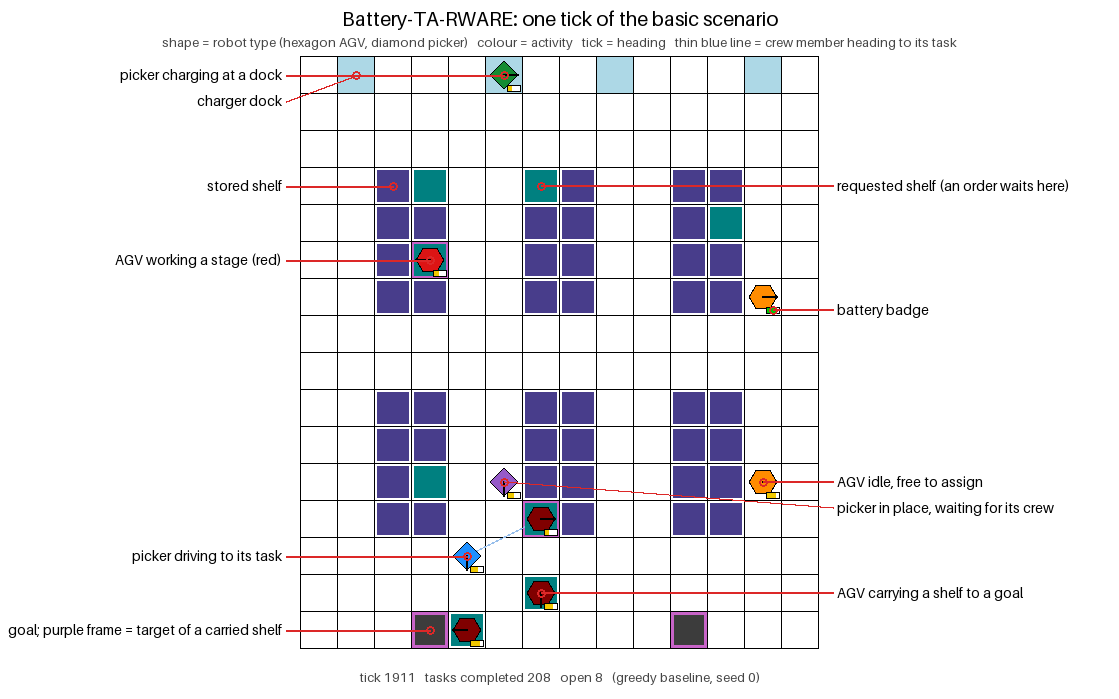
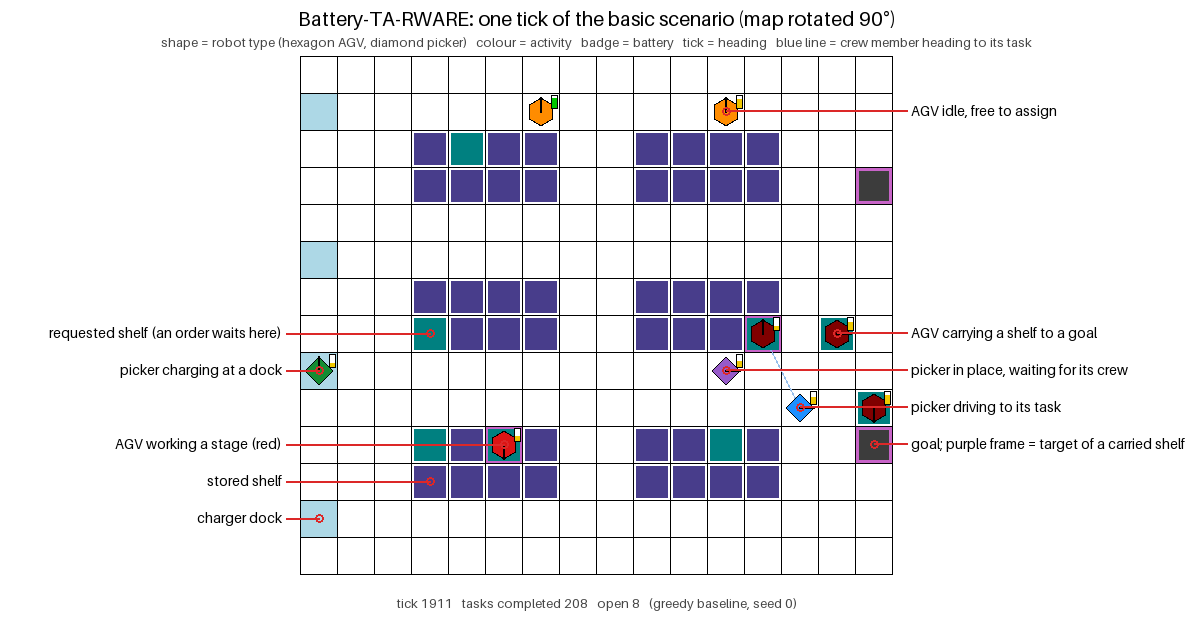
Release polish: large-scale GIFs with charging, rotated explanation figure, README emphasis, PettingZoo metadata v2

Changed region(s): [[0.0, 0.0, 1.0, 0.9728], [0.7292, 0.3648, 0.7596, 0.3952]]

diff --git a/docs/make_gifs.py b/docs/make_gifs.py
@@ -1,4 +1,5 @@
-"""Render the README animations (docs/img/*.gif) with the greedy baseline.
+"""Render the four README animations (docs/img/*.gif): large versions of basic, intermediate,
+advanced and the tutorial scenario, run by the greedy baseline.
 
     python docs/make_gifs.py            # needs Pillow (pip install pillow)
 
@@ -12,6 +13,7 @@ look). This script adds a title bar and a legend:
 """
 from __future__ import annotations
 
+import copy
 import os
 import sys
 
@@ -20,7 +22,7 @@ from PIL import Image, ImageDraw, ImageFont
 
 sys.path.insert(0, os.path.join(os.path.dirname(__file__), ".."))
 import battery_tarware as bt  # noqa: E402
-from battery_tarware.rendering import legend, regular_polygon, rgb_array  # noqa: E402
+from battery_tarware.rendering import legend, regular_polygon, rgb_array, robot_activity  # noqa: E402
 
 OUT = os.path.join(os.path.dirname(__file__), "img")
 CELL = 24
@@ -80,19 +82,75 @@ def frame(env, title):
     return img
 
 
-def large_config():
-    """The basic scenario scaled up 3x: an 18-block warehouse, 18 AGVs and 9 pickers."""
-    cfg = bt.get_scenario("basic")
-    cfg["name"] = "basic_large"
-    cfg["map"] = {"generator": {"rack_rows": 3, "rack_cols": 6, "rack_height": 5, "goals": 6, "docks": 8}}
+def scale(cfg, k, generator=None, demand=None, initial_soc=None):
+    """A large version of a scenario: k times the fleet, the demand (or ``demand`` times) and the
+    task board; a bigger generated map, or the ASCII map tiled k times side by side."""
+    cfg = copy.deepcopy(cfg)
+    cfg["name"] = "%s (large)" % cfg["name"]
+    if generator is not None:
+        cfg["map"] = {"generator": generator}
+    else:
+        rows = cfg["map"]["ascii"]
+        rows = rows.strip("\n").splitlines() if isinstance(rows, str) else list(rows)
+        cfg["map"] = dict(cfg["map"], ascii=[r * k for r in rows])
     for group in cfg["fleet"]:
-        group["count"] *= 3
-    cfg["demand"][0]["open"] *= 3
-    cfg["observation"] = {"task_slots": 32}
+        group["count"] *= k
+        if initial_soc is not None:
+            group["initial_soc"] = initial_soc
+    f = k if demand is None else demand
+    for d in cfg["demand"]:
+        if "open" in d:
+            d["open"] = int(round(d["open"] * f))
+        if "rate" in d:
+            d["rate"] *= f
+        if "rates" in d:
+            d["rates"] = [[t, r * f] for t, r in d["rates"]]
+        if "count" in d:
+            d["count"] = int(round(d["count"] * f))
+    obs = dict(cfg.get("observation", {}))
+    obs["task_slots"] = obs.get("task_slots", 16) * k
+    cfg["observation"] = obs
     return cfg
 
 
-def record(scenario, frames, every, seed=0, warmup=0, name=None, **overrides):
+def large_scenarios():
+    """The four README animations: every scenario scaled up (about 18-27 robots each)."""
+    import yaml
+    tutorial = yaml.safe_load(open(os.path.join(os.path.dirname(__file__), "..", "examples", "tutorial.yaml")))
+    return {
+        # 3x: 18 AGVs, 9 pickers; part-charged at the start so the shared docks are contested
+        "basic": scale(bt.get_scenario("basic"), 3, initial_soc=[0.25, 0.6],
+                       generator={"rack_rows": 4, "rack_cols": 7, "rack_height": 8, "goals": 7, "docks": 8}),
+        # 2x: 12 light + 4 heavy AGVs, 10 pickers
+        "intermediate": scale(bt.get_scenario("intermediate"), 2,
+                              generator={"rack_rows": 4, "rack_cols": 7, "rack_height": 8, "goals": 7, "docks": 12}),
+        # 2x fleet on the map tiled twice; 1.5x demand keeps the greedy baseline near balance
+        "advanced": scale(bt.get_scenario("advanced"), 2, demand=1.5),
+        # 2x
+        "tutorial": scale(tutorial, 2),
+    }
+
+
+def _charging_window(scenario, seed, length, **overrides):
+    """Start tick of the window with the most robots charging or heading to a charger."""
+    env = bt.make(scenario, **overrides)
+    coordinator = bt.GreedyCoalitionCoordinator("fifo")
+    env.reset(seed=seed)
+    coordinator.reset(env)
+    counts = []
+    while True:
+        _, _, terminated, truncated, _ = env.step(coordinator.act(env))
+        counts.append(sum(robot_activity(env.sim, r) in ("charging", "to_charger") for r in env.sim.robots))
+        if terminated or truncated:
+            break
+    c = np.concatenate([[0], np.cumsum(counts)])
+    sums = c[length:] - c[:-length]
+    return int(np.argmax(sums)), int(sums.max())
+
+
+def record(scenario, frames, every, seed=0, name=None, title=None, **overrides):
+    """Record ``frames`` frames (one every ``every`` ticks) over the stretch with the most charging."""
+    warmup, charge_ticks = _charging_window(scenario, seed, frames * every, **overrides)
     env = bt.make(scenario, **overrides)
     coordinator = bt.GreedyCoalitionCoordinator("fifo")
     env.reset(seed=seed)
@@ -101,17 +159,14 @@ def record(scenario, frames, every, seed=0, warmup=0, name=None, **overrides):
     for t in range(warmup + frames * every):
         env.step(coordinator.act(env))
         if t >= warmup and (t - warmup) % every == 0:
-            images.append(frame(env, name or scenario).convert("P", palette=Image.ADAPTIVE, colors=96))
+            images.append(frame(env, title or name or scenario).convert("P", palette=Image.ADAPTIVE, colors=96))
     os.makedirs(OUT, exist_ok=True)
     path = os.path.join(OUT, "%s.gif" % (name or scenario))
     images[0].save(path, save_all=True, append_images=images[1:], duration=120, loop=0, optimize=True)
-    print(path, "%.0f kB" % (os.path.getsize(path) / 1024))
+    print(path, "%.0f kB" % (os.path.getsize(path) / 1024), "ticks %d-%d" % (warmup, warmup + frames * every),
+          "charging robot-ticks %d" % charge_ticks)
 
 
 if __name__ == "__main__":
-    record(large_config(), frames=160, every=1, warmup=300, name="large")
-    record("basic", frames=180, every=1, warmup=100)
-    record("intermediate", frames=180, every=2, warmup=1000)   # demand peak
-    record("advanced", frames=180, every=2, warmup=850)
-    record(os.path.join(os.path.dirname(__file__), "..", "examples", "tutorial.yaml"), frames=180, every=1,
-           warmup=1050, name="tutorial")
+    for name, cfg in large_scenarios().items():
+        record(cfg, frames=160, every=1 if name in ("basic", "tutorial") else 2, name=name, title=cfg["name"])

diff --git a/docs/make_figure.py b/docs/make_figure.py
@@ -1,4 +1,4 @@
-"""Render the annotated explanation figure (docs/img/explanation.png).
+"""Render the annotated explanation figure (docs/img/explanation.png), the map rotated 90° (landscape).
 
     python docs/make_figure.py          # needs Pillow
 
@@ -11,6 +11,7 @@ from __future__ import annotations
 import os
 import sys
 
+import numpy as np
 from PIL import Image, ImageDraw, ImageFont
 
 sys.path.insert(0, os.path.join(os.path.dirname(__file__), ".."))
@@ -48,10 +49,6 @@ def elements(sim):
     occupied = {r.cell for r in sim.robots}
     occupied |= {t.stage_cell for t in sim.tasks.values() if t.carried and not t.done}   # keep framed goals apart
     out = {label: cell for label, cell in found.values()}
-    lone = [r for r in sim.robots if sum(o.cell == r.cell for o in sim.robots) == 1]
-    if lone:
-        r = lone[len(lone) // 2]
-        out["battery badge"] = ("badge", r.cell)
     for t in sim.tasks.values():
         if t.done or t.state.value == "pending":
             continue
@@ -95,23 +92,27 @@ def render(cfg, tick, seed=0):
     for _ in range(tick):
         env.step(c.act(env))
     sim = env.sim
-    world = Image.fromarray(rgb_array(sim, cell_px=CELL, crew_lines=True))
+    arr = rgb_array(sim, cell_px=CELL, crew_lines=True)
+    WP = arr.shape[1]
+    world = Image.fromarray(np.ascontiguousarray(np.rot90(arr)))   # rotated 90 degrees: landscape
     img = Image.new("RGB", (world.width + 2 * MARGIN, world.height + TOP + 50), (255, 255, 255))
     img.paste(world, (MARGIN, TOP))
     d = ImageDraw.Draw(img)
     f_title, f_lab, f_note = font(20), font(14), font(13)
-    d.text((img.width / 2, 18), "Battery-TA-RWARE: one tick of the basic scenario", fill="black",
+    d.text((img.width / 2, 18), "Battery-TA-RWARE: one tick of the basic scenario (map rotated 90°)", fill="black",
            font=f_title, anchor="mm")
     d.text((img.width / 2, 42), "shape = robot type (hexagon AGV, diamond picker)   colour = activity   "
-           "tick = heading   thin blue line = crew member heading to its task", fill=(70, 70, 70), font=f_note,
+           "badge = battery   tick = heading   blue line = crew member heading to its task", fill=(70, 70, 70), font=f_note,
            anchor="mm")
 
     def px(cell):
         g = CELL + 1
         if cell[0] == "badge":                                 # the battery badge, bottom right of the cell
             c = cell[1]
-            return MARGIN + 1 + c[1] * g + CELL - 8, TOP + 1 + c[0] * g + CELL - 5
-        return MARGIN + 1 + cell[1] * g + CELL / 2, TOP + 1 + cell[0] * g + CELL / 2
+            ox, oy = 1 + c[1] * g + CELL - 8, 1 + c[0] * g + CELL - 5
+        else:
+            ox, oy = 1 + cell[1] * g + CELL / 2, 1 + cell[0] * g + CELL / 2
+        return MARGIN + oy, TOP + (WP - 1 - ox)                    # same rotation as the image
 
     items = elements(sim).items()
     mid = MARGIN + world.width / 2

diff --git a/battery_tarware/pettingzoo_env.py b/battery_tarware/pettingzoo_env.py
@@ -22,7 +22,7 @@ from battery_tarware.env import BatteryTarwareEnv
 
 
 class BatteryTarwareParallelEnv(ParallelEnv):
-    metadata = {"render_modes": ["rgb_array", "ansi", "human"], "name": "battery_tarware_v1"}
+    metadata = {"render_modes": ["rgb_array", "ansi", "human"], "name": "battery_tarware_v2"}
 
     def __init__(self, scenario="basic", render_mode: Optional[str] = None, reward_mode: str = "individual",
                  **overrides: Any):

diff --git a/README.md b/README.md
@@ -4,10 +4,17 @@
   <img src="docs/img/explanation.png" width="820" alt="Annotated tick of the basic scenario: robots, shelves, goals, docks and what each colour and shape means">
 </p>
 
-**Heterogeneous multi-robot cooperation under battery constraints.** Battery-TA-RWARE is a
-configurable warehouse simulator for task allocation, coalition formation and charging. It is a
+**A benchmark for heterogeneous multi-robot cooperation under battery constraints**, as a
 [Gymnasium](https://gymnasium.farama.org) environment with a
-[PettingZoo](https://pettingzoo.farama.org) wrapper.
+[PettingZoo](https://pettingzoo.farama.org) wrapper. Four things are modelled explicitly and can be
+configured:
+
+| | |
+|---|---|
+| **Heterogeneous capabilities** | Robots differ in what they can do (capabilities), how fast they move and work, what they can lift, where they may drive, how big their battery is and how much they can see. |
+| **Cooperative task execution** | A task needs a crew: several roles, each with a capability and a count, that must meet at a place and work synchronized stages together, up to joint transport by several carriers. |
+| **Dynamic demand** | Tasks arrive over time as backlog, Poisson (with peaks), batches or traces, as mixes of task types and as dependency-linked jobs, with deadlines and priorities. |
+| **Shared resources** | Robots share aisles (collision-free movement), a limited set of charger docks of different types and power, and batteries that run out. |
 
 > **Version 2 is a new engine.** It is not trajectory-compatible with Battery-TA-RWARE v1 (branch
 > [`v1`](../../tree/v1), tag `legacy-v1.1.0`), or with results obtained on the v1 kernel. The rules
@@ -36,35 +43,48 @@ configurable warehouse simulator for task allocation, coalition formation and ch
 A team of heterogeneous robots serves a stream of warehouse tasks on a grid. In the basic
 scenario, AGVs carry shelves and pickers load them, much as in TA-RWARE. Neither group can finish
 an order alone, so the robots have to meet, at the right shelf and at the right time. Every robot
-runs on a battery that it has to recharge at a limited number of docks.
+runs on a battery that it has to recharge at a limited number of shared docks.
 
-In version 2 all of this is configuration:
+The three built-in tiers add one kind of difficulty at a time. *Basic* couples two roles.
+*Intermediate* adds heterogeneity within roles, joint transport and peak demand. *Advanced* adds
+four capability types, custom zones, dependency DAGs, deadlines and breakdowns. Everything is
+configuration, so the same engine runs your own fleets and tasks
+([build your own scenario](#build-your-own-scenario)).
 
-- **Robots** differ in what they can do, how fast they move, what they can lift, how long their
-  battery lasts, which chargers they can use and how much they can see.
-- **Tasks** say which capabilities they need, how many robots of each, where the crew must meet
-  and for how long.
-- **The environment** works out which teams *can* do a task. Your coordinator or learning agent
-  decides who actually does it.
+The environment works out which teams *can* do a task: capability, carrier capacity,
+reachability and energy reserve. Your coordinator or learning agent decides who actually does
+it.
 
 ## What does it look like?
 
+The four animations show large versions of the built-in tiers and of the tutorial scenario, run by
+the greedy baseline. Each shows the stretch of its episode with the most charging.
+
 <p align="center">
-  <img src="docs/img/large.gif" width="760" alt="large warehouse: 18 AGVs and 9 pickers">
-  <br><b>large</b>: the basic scenario scaled up 3×, with 18 AGVs, 9 pickers and 18 rack blocks
-  (see <a href="#built-in-scenarios">scaling up</a>)
+  <img src="docs/img/basic.gif" width="820" alt="basic scenario, large"><br>
+  <b>basic</b> (3×: 18 AGVs, 9 pickers, 4 × 7 rack blocks of 2 × 8 shelves). Two roles must meet: an AGV and a picker at the shelf for
+  every order, again for the return. The robots start part-charged, so the 8 docks are contested.
 </p>
 
-<table>
-  <tr>
-    <td align="center"><img src="docs/img/basic.gif" width="400" alt="basic scenario"><br><b>basic</b>: AGVs and pickers, pick + return</td>
-    <td align="center"><img src="docs/img/intermediate.gif" width="400" alt="intermediate scenario"><br><b>intermediate</b>: light/heavy AGVs, joint transport</td>
-  </tr>
-  <tr>
-    <td align="center"><img src="docs/img/advanced.gif" width="400" alt="advanced scenario"><br><b>advanced</b>: AGVs, forklifts, arms, drones, custom zones</td>
-    <td align="center"><img src="docs/img/tutorial.gif" width="400" alt="tutorial scenario"><br><b>tutorial</b>: the scenario built below, in YAML</td>
-  </tr>
-</table>
+<p align="center">
+  <img src="docs/img/intermediate.gif" width="820" alt="intermediate scenario, large"><br>
+  <b>intermediate</b> (2×: light and heavy AGVs, fast and standard pickers, 4 × 7 rack blocks of 2 × 8 shelves). Heterogeneity within
+  roles, pallets only heavy AGVs can lift, oversize loads carried jointly by two AGVs, peak demand,
+  fast chargers that heavy AGVs cannot use.
+</p>
+
+<p align="center">
+  <img src="docs/img/advanced.gif" width="820" alt="advanced scenario, large"><br>
+  <b>advanced</b> (2×: AGVs, forklifts, mobile manipulators, drones). Four capability types,
+  receiving and quality-check zones, inbound jobs linked by location, deadlines and breakdowns.
+</p>
+
+<p align="center">
+  <img src="docs/img/tutorial.gif" width="820" alt="tutorial scenario, large"><br>
+  <b>tutorial</b> (2×): the scenario <a href="#build-your-own-scenario">built step by step below</a>.
+  Totes are picked, packed in a custom zone and delivered; pallets need two AGVs; pickers can use
+  only the standard chargers.
+</p>
 
 The renderer follows the TA-RWARE style:
 
@@ -78,7 +98,8 @@ The renderer follows the TA-RWARE style:
 
 `env.render()` produces the same image (`render_mode="rgb_array"` or `"human"`; numpy only). The
 GIFs and the figure above come from `python docs/make_gifs.py` and `python docs/make_figure.py`
-(greedy baseline, seed 0; they need Pillow).
+(greedy baseline, seed 0; they need Pillow). Basic robots draw little power: at the standard size
+and full initial charge, the first recharges of a 2000-tick basic episode come near its end.
 
 ## Action space
 
@@ -292,7 +313,7 @@ robot_types:
     payload_kg: 80
     zones: [aisle, storage, goal, dock, packing]
     zones_loaded: [aisle, goal, dock, packing]   # not under racks while loaded
-    energy: {capacity_wh: 1000, idle_w: 20, move_w: 140, payload_w_per_kg: 1.5, handling_w: 40}
+    energy: {capacity_wh: 300, idle_w: 20, move_w: 140, payload_w_per_kg: 1.5, handling_w: 40}
   - name: picker
     capabilities: [pick, pack]
     speed: 0.5                                   # one cell every two ticks
@@ -300,7 +321,7 @@ robot_types:
     zones: [aisle, dock, packing]
     charger_types: [standard]                    # cannot use fast chargers
     sensing_range: 5                             # partial observability
-    energy: {capacity_wh: 600, idle_w: 15, move_w: 90, handling_w: 120}
+    energy: {capacity_wh: 250, idle_w: 15, move_w: 90, handling_w: 120}
     failure: {rate: 0.0002, repair_ticks: 30}    # random breakdowns
 ```
 
@@ -310,7 +331,7 @@ override fields of its type, for example to model an aged battery.
 ```yaml
 fleet:
   - {type: agv, count: 5, initial_soc: [0.5, 1.0]}
-  - {type: agv, name: agv_old, count: 1, overrides: {energy: {capacity_wh: 500}}}
+  - {type: agv, name: agv_old, count: 1, overrides: {energy: {capacity_wh: 180}}}
   - {type: picker, count: 3}
 ```
 
@@ -444,18 +465,21 @@ Each tier adds new cooperation constraints, not just more robots.
 `battery_tarware/Warehouse-v2` runs any scenario. `bt.get_scenario(name)` returns a built-in as an
 editable dict.
 
-**Scaling up.** The *large* animation above is basic scaled up 3×: a 25 × 26 grid (rows × columns), 18 AGVs and
-9 pickers. The greedy baseline completes about 275 tasks in 2000 ticks there, with no robot
-stranded.
+**Scaling up.** Any scenario can be made larger by editing its dict: the map generator (or the
+ASCII map), the fleet counts, the demand and `observation.task_slots`. `scale()` in
+[docs/make_gifs.py](docs/make_gifs.py) builds the large versions in the animations: basic 3× and
+intermediate 2×, both on a 4 × 7 grid of 2 × 8-shelf rack blocks; advanced 2×, with the map tiled twice side by side and 1.5× demand; tutorial 2×.
+All four run without stranding a robot. For example, basic at 3× on a 4 × 7 grid of rack blocks, each 2 shelves wide and 8 deep (44 × 30 cells):
 
 ```python
 cfg = bt.get_scenario("basic")
-cfg["map"] = {"generator": {"rack_rows": 3, "rack_cols": 6, "rack_height": 5, "goals": 6, "docks": 8}}
+cfg["map"] = {"generator": {"rack_rows": 4, "rack_cols": 7, "rack_height": 8, "goals": 7, "docks": 8}}
 for group in cfg["fleet"]:
     group["count"] *= 3                      # 18 AGVs, 9 pickers
+    group["initial_soc"] = [0.25, 0.6]
 cfg["demand"][0]["open"] *= 3                # 24 tasks kept open
 cfg["observation"] = {"task_slots": 32}
-env = bt.make(cfg)
+env = bt.make(cfg)                           # greedy baseline: about 220 tasks in 2000 ticks
 ```
 
 ## Interfaces
@@ -472,8 +496,10 @@ passes `pettingzoo.test.parallel_api_test`. It also provides `state()` for centr
 - A centralized coordinator can also call the validated simulator API on `env.unwrapped.sim`:
   `assign`, `assign_coalition`, `release`, `send_to_charger` and `feasible_coalitions`. Every call
   returns `(ok, reason)`.
-- Built in: `GreedyCoalitionCoordinator(rule)` and `RandomCoordinator`.
-- Dispatching rules: `fifo`, `edd`, `spt`, `cr`, `priority`. Each is defined in full in `bt.RULES`.
+- Two reference baselines are built in. `GreedyCoalitionCoordinator` assigns feasible coalitions
+  greedily and recharges below a threshold. Its task order is a standard dispatching rule
+  (`fifo` by default; the others are listed in `bt.RULES`). `RandomCoordinator` is a masked
+  random policy. They are reference points, not tuned methods.
 
 **State for external code**: `env.unwrapped.state_view()` is a frozen snapshot of the robots, tasks
 and chargers. `.to_arrays()` returns contiguous, fixed-dtype numpy arrays (schema version 1, int32
